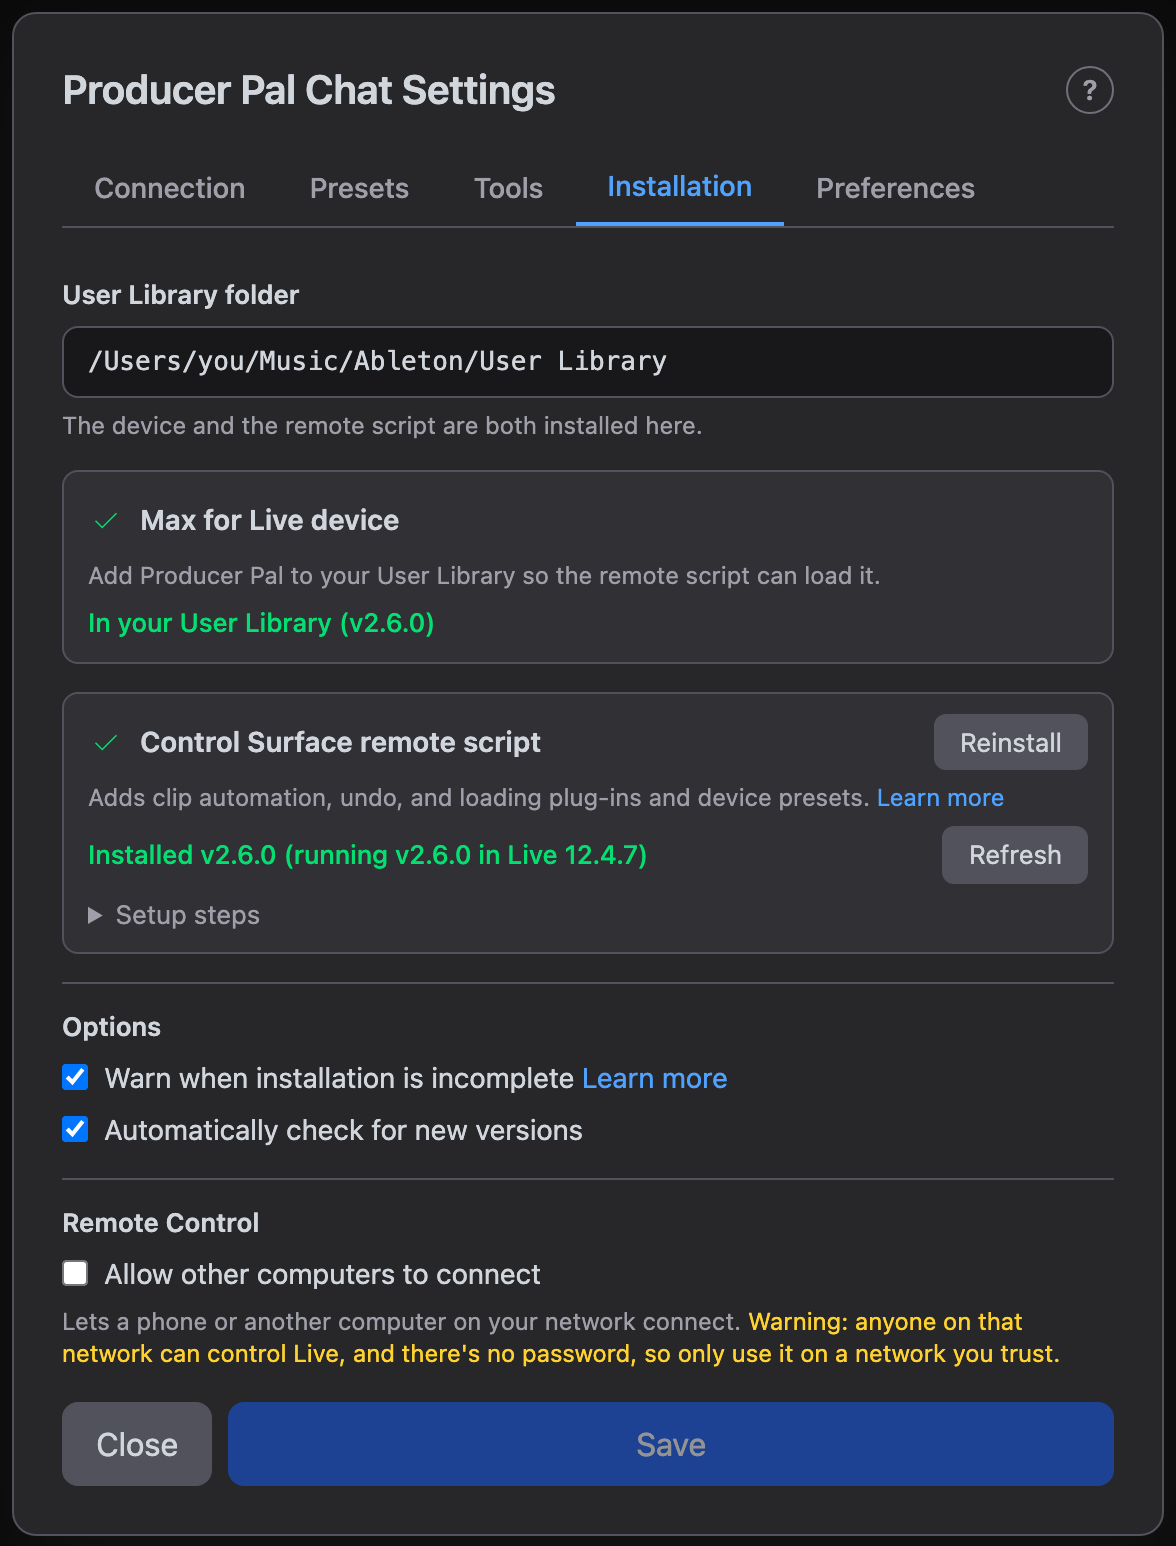
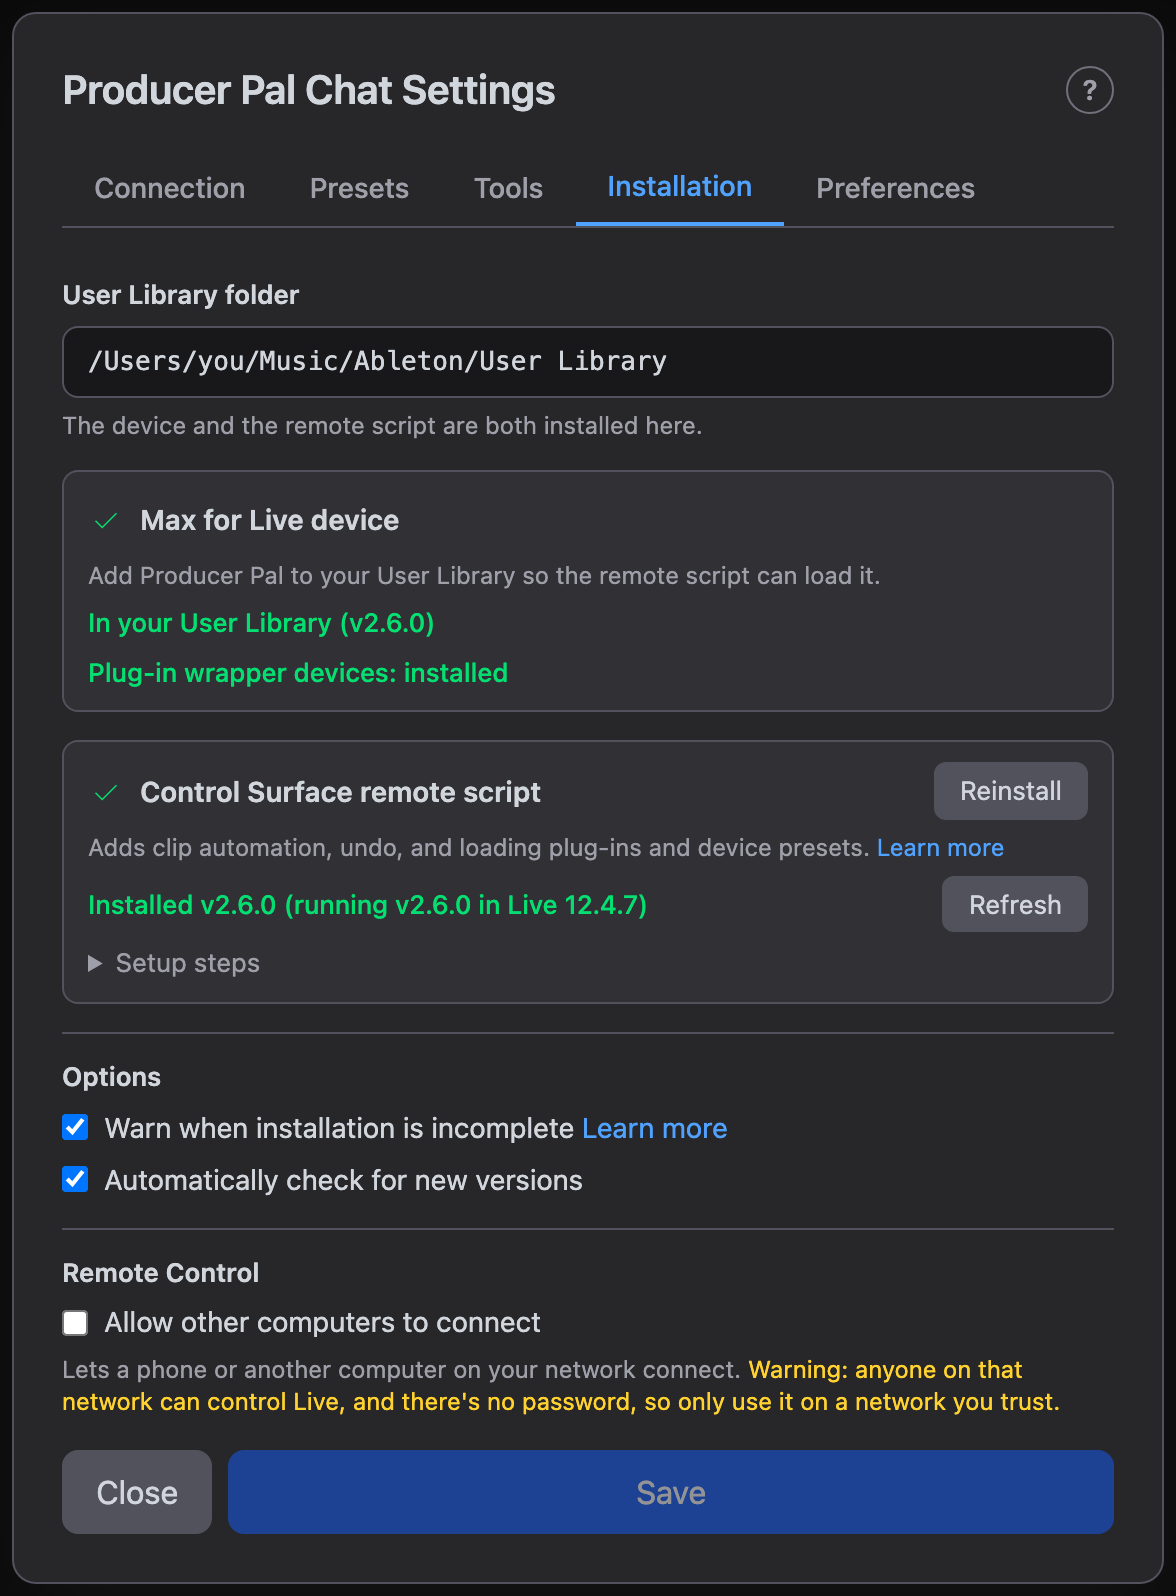
docs: bring the site up to date for 2.6.0
The roadmap's 2.6 entry now leads with the three headline features
(full plug-in control, Live 13 support, safer by default) and lists the
rest under them.

Stale lines removed: Known Issues pointed at a "lengthening looped
arrangement clips" limitation that 2.6 fixed, and the features page
listed plug-in internals and arrangement automation as things Producer
Pal can't do. The upgrading page no longer names 2.3.0 as the release
that changed script formats, since each release can.

The tool reference's highlights now mention what 2.6 added: connect's
versionCheck, several memories in one context call, library paging,
read-device's paramOffset, maxChains, macroCount up to 32, and the Live
13 clip types. The Skills table says the devices fragments cover
full-control plug-ins and CC Control.

The Installation tab screenshots never showed the plug-in wrapper
status because the screenshot stub sent none. The stub now reports the
two wrappers, and all the settings screenshots are regenerated.

The example producer-pal skill says reaching Live on another computer
needs Remote Control turned on.

diff --git a/e2e/ui/settings/docs-screenshots/screenshot-setup.ts b/e2e/ui/settings/docs-screenshots/screenshot-setup.ts
@@ -31,6 +31,19 @@ export const FAKE_KEY = "x".repeat(39);
 type Body = Record<string, unknown>;
 
 /**
+ * The two plug-in wrapper devices, both in one state.
+ * @param state - "current" once installed, "missing" before
+ * @returns The /device-install `pluginHost` list
+ */
+export function pluginHostWrappers(state: "current" | "missing"): Body[] {
+  return ["PPal Plug-in Effect", "PPal Plug-in Instrument"].map((name) => ({
+    name,
+    path: `${USER_LIBRARY}/Presets/${name}.amxd`,
+    state,
+  }));
+}
+
+/**
  * Device install status: the User Library copy, unless overridden.
  * @param overrides - Fields to change
  * @returns The /device-install response body
@@ -50,6 +63,7 @@ export function deviceStatus(overrides: Body = {}): Body {
       allowed: false,
       reason: "This device is already the User Library copy.",
     },
+    pluginHost: pluginHostWrappers("current"),
     ...overrides,
   };
 }

diff --git a/e2e/ui/settings/docs-screenshots/installation-tab.screenshots.ts b/e2e/ui/settings/docs-screenshots/installation-tab.screenshots.ts
@@ -12,6 +12,7 @@ import {
   type ScreenshotSetup,
   VERSION,
   deviceStatus,
+  pluginHostWrappers,
   remoteScriptStatus,
   saveDialogScreenshot,
   setupScreenshot,
@@ -42,6 +43,7 @@ test("device from Downloads, nothing installed", async ({ page }) => {
         inUserLibrary: false,
         state: "not-installed",
         installedVersion: null,
+        pluginHost: pluginHostWrappers("missing"),
         swap: {
           allowed: false,
           reason:

diff --git a/docs/features/tools.md b/docs/features/tools.md
@@ -49,6 +49,8 @@ gives you this shape.
   simplified skills and schemas for less capable models.
 - Call it first when a model is driving Producer Pal. That's how the AI learns
   the notation and conventions. A plain REST script can skip it.
+- Re-check versions after an install or update with `versionCheck`, without
+  re-sending the Skills and context
 
 <!--@include: ../_generated/ppal-connect-schema.md-->
 
@@ -59,6 +61,7 @@ gives you this shape.
 - Read and write the three [context layers](/guide/context): project context
   (notes about this Live Set), global context (preferences that apply to every
   project), and memory (facts AI records about you as you work)
+- Read or delete several memory entries in one call
 
 <!--@include: ../_generated/ppal-context-schema.md-->
 
@@ -122,6 +125,8 @@ Live, or make sure your standalone Max is up to date. See
 - Finds the files in any folder you add to Places in Live's browser, listed
   under User. A folder or file added while Live is running may not show up until
   Live restarts
+- Long results come in pages: a search that hit its `limit` (200 at most)
+  returns `nextOffset`, to pass back as `offset`
 - Sort by `use-count` (Live's persistent usage counter, which surfaces what you
   actually use most), `mod-date`, or `name`
 - Enumerate available tags with `action: "list-tags"` so the AI can discover the
@@ -361,6 +366,9 @@ for how it reads under [MIDI JSON](/features/midi-notation#midi-json) and
 - Get audio clip gain, pitch, warp settings, and sample info
 - See a MIDI clip's own `scale` when it differs from the Live Set's (Live
   12.4.15 or later)
+- Live 13: envelope clips on return tracks (`rt0/s0`) read as
+  `type: "envelope"`. Step sequencer clips read as `type: "step-sequencer"`, but
+  Live doesn't let their steps be read or edited yet
 - Read a session clip's automation envelopes with `include: ["envelopes"]`
   (needs the [remote script](/guide/remote-script)). A clip read shows
   `envs: true` when it has some. An arrangement clip's automation is the track's
@@ -466,11 +474,14 @@ sounding.
 
 - Get detailed info about any device, including inside rack chains and drum pad
   chains
-- List device parameter names and values (the state of knobs, dials, etc)
+- List device parameter names and values (the state of knobs, dials, etc). Page
+  through a device with many parameters using `paramOffset`
 - See a rack chain's own volume, pan, and sends when they're not at default
 - See which parameters have arrangement automation. Left out, with a reason,
   while the track plays from Session
 - See which of a rack's macros are mapped (needs the remote script)
+- See `maxChains` on a rack with fixed chains (Live 13's Mid-Side and Multiband
+  racks)
 - Read and write a Simpler's `pitchBendRange` and `notePitchBendRange` as
   parameters (needs the remote script)
 
@@ -486,6 +497,7 @@ sounding.
 - Move devices anywhere else in the Live Set, including into racks / wrapping in
   a new rack
 - Create, load, delete, revert, and randomize rack macro variations
+- Set how many macros a rack shows with `macroCount` (up to 32 on Live 13)
 - A/B Compare with supported devices
 - Control chain and drum pad mute and solo state
 - Set a rack chain's own volume, pan, and send levels, several sends at once

diff --git a/docs/guide/customizing-skills.md b/docs/guide/customizing-skills.md
@@ -62,9 +62,9 @@ a whole area you never use:
 | `transforms-generative`                          | ratchet/repeat/split/merge, and the waveforms that modulate a value across a clip                                                            |
 | `transforms-basic`                               | Merging into a clip and clearing notes with `preTransforms`; the whole transforms guide in small model mode                                  |
 | `library`                                        | Using library search results: sanity-checking a tag hit against the file's folder, and loading a result into a clip or a Simpler             |
-| `devices`                                        | Device paths and VST/AU limits                                                                                                               |
+| `devices`                                        | Device paths, VST/AU limits, and plug-ins added with [full control](/guide/plugins)                                                          |
 | `plugins-and-max-devices`                        | Loading VST/AU plug-ins, Max for Live devices and presets, sent only while the Producer Pal [remote script](/guide/remote-script) is running |
-| `devices-write`                                  | How parameter values snap on a write, building Simpler and Drum Rack instruments, loading samples                                            |
+| `devices-write`                                  | How parameter values snap on a write, building Simpler and Drum Rack instruments, loading samples, and reaching MIDI CCs through CC Control  |
 | `specialized-devices`                            | The extra controls specific native devices expose (Drift, Wavetable, EQ Eight…)                                                              |
 | `arrangement`                                    | What an Arrangement position means: song meter vs. clip meter                                                                                |
 | `arrangement-write`                              | Moving and splitting clips on the Arrangement timeline, and take lanes                                                                       |

diff --git a/docs/roadmap.md b/docs/roadmap.md
@@ -20,20 +20,26 @@ In consideration:
 See [the list of releases](https://github.com/adamjmurray/producer-pal/releases)
 for more detailed information.
 
-### 2.6 - Plug-in Control (November 2026)
+### 2.6 - Plug-in Control, Live 13, Safer by Default (November 2026)
 
-- Full plug-in control: add a VST3, AU or VST2 plug-in inside a Producer Pal
-  wrapper and the AI can read and set every parameter, and automate them in
-  clips. Needs the remote script and Live 12.4+. See
+- **Full plug-in control:** add a VST3, AU or VST2 plug-in inside a Producer Pal
+  wrapper and the AI can read and set every parameter in the plug-in's own
+  units, and automate them in clips. Needs the remote script and Live 12.4+. See
   [Full Plug-in Control](/guide/plugins)
+- **Live 13 support:** envelope clips on return tracks, 32 macros, and Mid-Side
+  and Multiband racks. Step sequencer clips are recognized, but Live doesn't let
+  Producer Pal read or edit their steps yet
+- **Safer by default:** only Live's own computer can connect unless you turn on
+  [Remote Control](/installation/remote-access), and web pages can no longer
+  reach Producer Pal through your browser
+
+Also in this release:
+
 - Changing an arrangement clip's length resizes the clip in place. Before,
   lengthening a looped clip left a row of copies
 - Clips have their own MIDI scale (Live 12.4.15+)
-- Read, update and automate CC Control
-- Early Live 13 support: step sequencer clips, envelope clips on return tracks,
-  32 macros, and racks with fixed chains
-- Only this computer can connect by default. Turn on Remote Control to use
-  Producer Pal from a phone or another computer
+- Read, set and automate CC Control, so mod wheel and other MIDI CCs can get
+  clip envelopes
 - Folders in Live's Places replace the custom sample folder setting
 - `ppal-library` pages long search results, and the plug-in list is current with
   the remote script

diff --git a/docs/support/known-issues.md b/docs/support/known-issues.md
@@ -5,9 +5,8 @@ Known bugs and rough edges.
 ::: tip Looking for what Producer Pal can't do?
 
 Clip envelopes lost on some moves, VST/AU plug-in internals, audio analysis and
-synthesis, drum pitch maps, and lengthening looped arrangement clips are
-**[Limitations](/features/limitations)**: design boundaries rather than bugs, so
-they aren't listed here.
+synthesis, and drum pitch maps are **[Limitations](/features/limitations)**:
+design boundaries rather than bugs, so they aren't listed here.
 
 :::
 

diff --git a/docs/installation/upgrading.md b/docs/installation/upgrading.md
@@ -90,8 +90,9 @@ version. See
 ### Calling Producer Pal from your own scripts
 
 Over [MCP](/guide/npx-cli), the [REST API](/guide/rest-api), or an
-[agent skill](/guide/skills), some input and output formats changed in 2.3.0.
-See the [Migration Guide](/guide/migration).
+[agent skill](/guide/skills), input and output formats can change a little in
+each release. See the [Migration Guide](/guide/migration) for what changed since
+your version.
 
 ## If something's not working
 

diff --git a/examples/skills/producer-pal/SKILL.md b/examples/skills/producer-pal/SKILL.md
@@ -165,6 +165,8 @@ Object Model when the standard tools aren't enough. (The user can also toggle
   track. The device shows "Producer Pal Running" when ready. See
   [If Producer Pal isn't running](#if-producer-pal-isnt-running) to add it.
 - Default endpoint: `http://localhost:3350`. Override with `--url` if needed.
+  Reaching Live on another computer also needs **Remote Control** turned on in
+  the device's **Setup** tab; it's off by default.
 
 ## References
 

diff --git a/docs/features.md b/docs/features.md
@@ -69,8 +69,8 @@ the loop.
 Every tool, with its full parameter list:
 **[Tool Reference →](/features/tools)**
 
-What it can't do (VST/AU plug-in internals, direct arrangement automation, audio
-analysis): **[Limitations →](/features/limitations)**
+What it can't do (audio analysis, seeing time signature changes, grouping
+tracks): **[Limitations →](/features/limitations)**
 
 ## MIDI Notation {#custom-music-notation}
 
